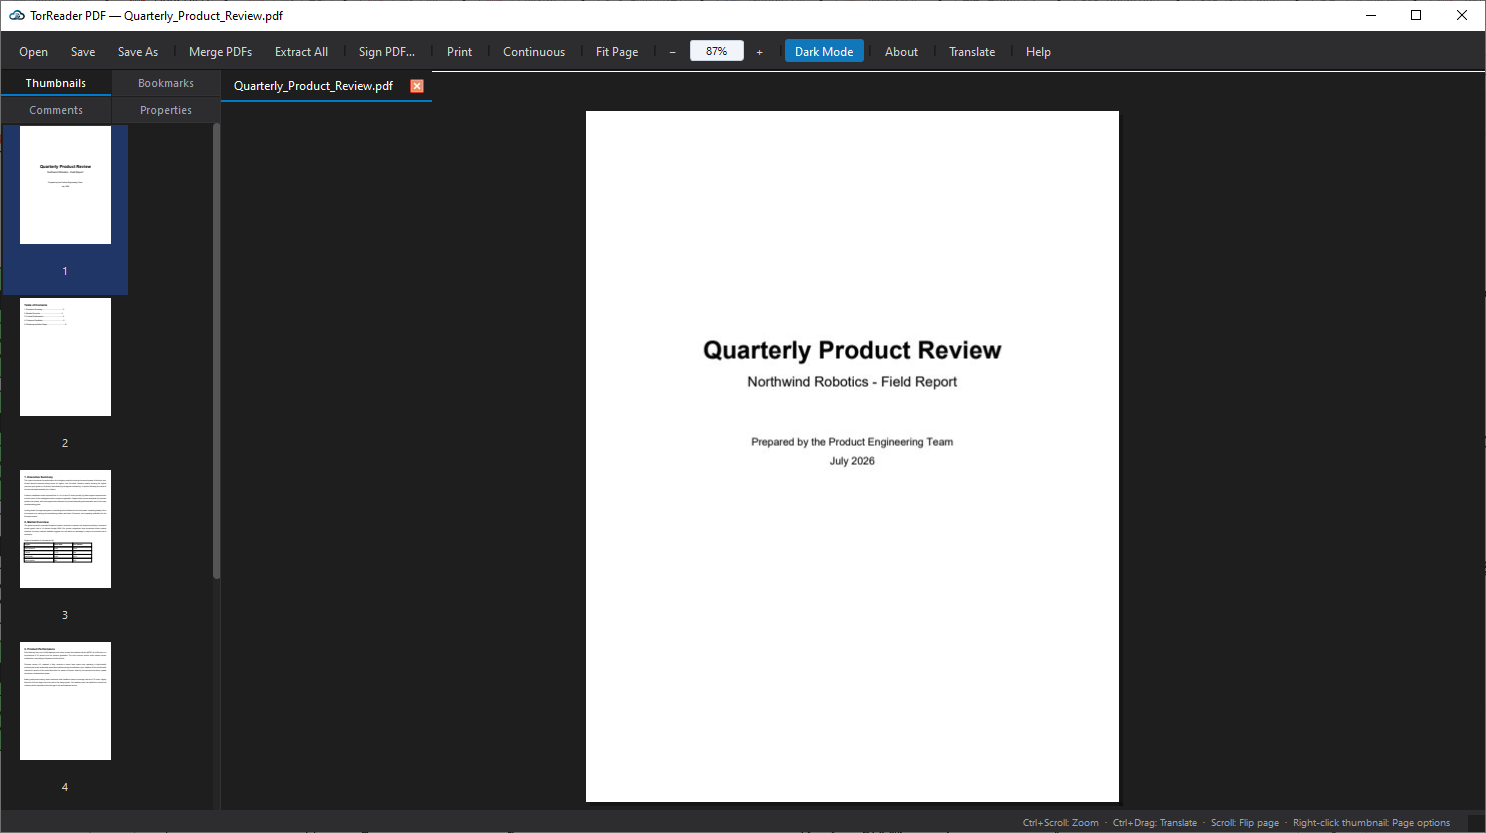
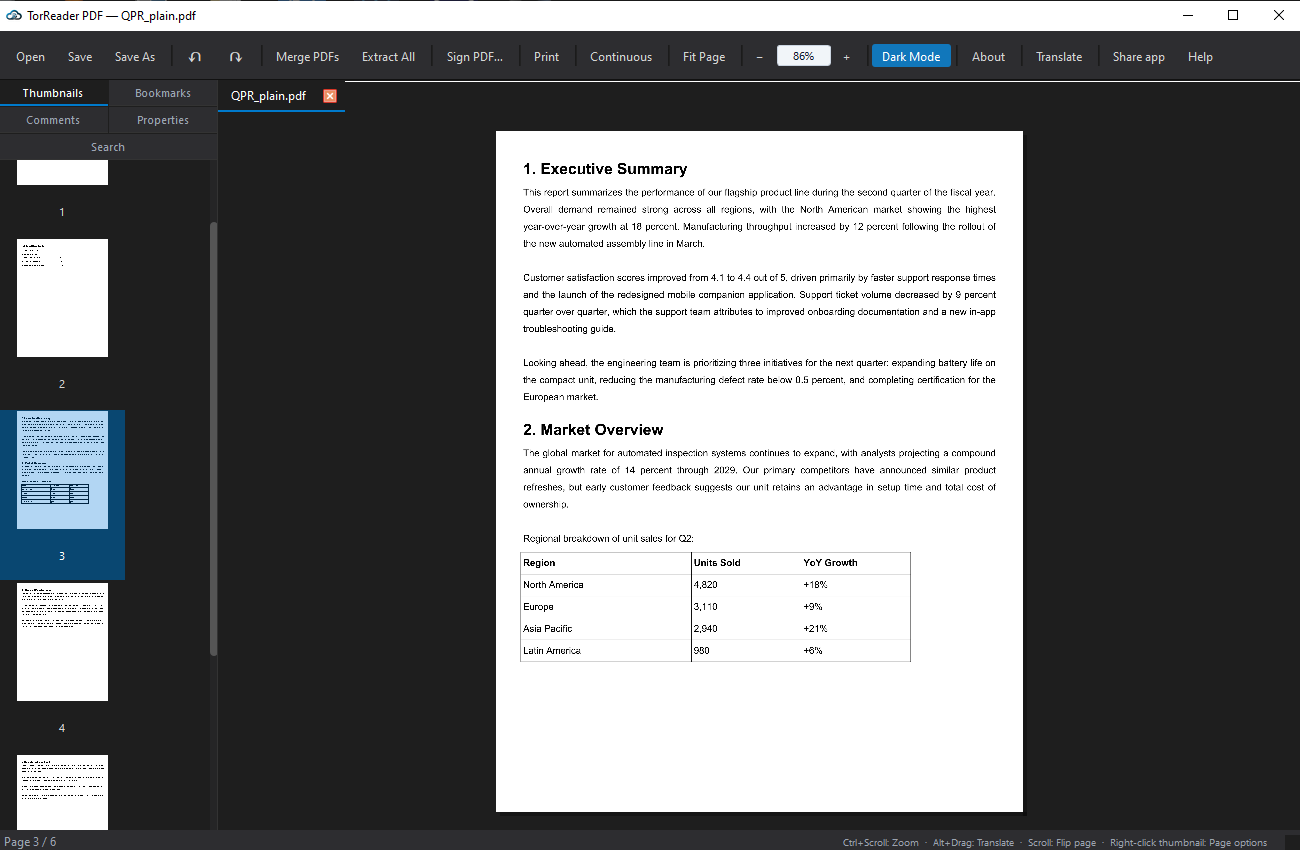
docs: reshoot every screenshot and the demo GIF on 2.3
All of them still showed the 2.2.4 UI. The new set is captured from the 2.3
build and cropped to the visible window, so the desktop no longer bleeds in
through the invisible window border.

diff --git a/README.md b/README.md
@@ -63,9 +63,8 @@ See all versions on the **[Releases page](https://github.com/FelixNgH/TorreaderP
 
 Full release notes: [`RELEASE_NOTES_2.3.md`](RELEASE_NOTES_2.3.md)
 
-<details>
-
 ![TorReader PDF demo](docs/screenshots/demo.gif)
+
 ![What's new in TorReader PDF 2.3](docs/screenshots/whats_new_2.3.png)
 
 <details>
